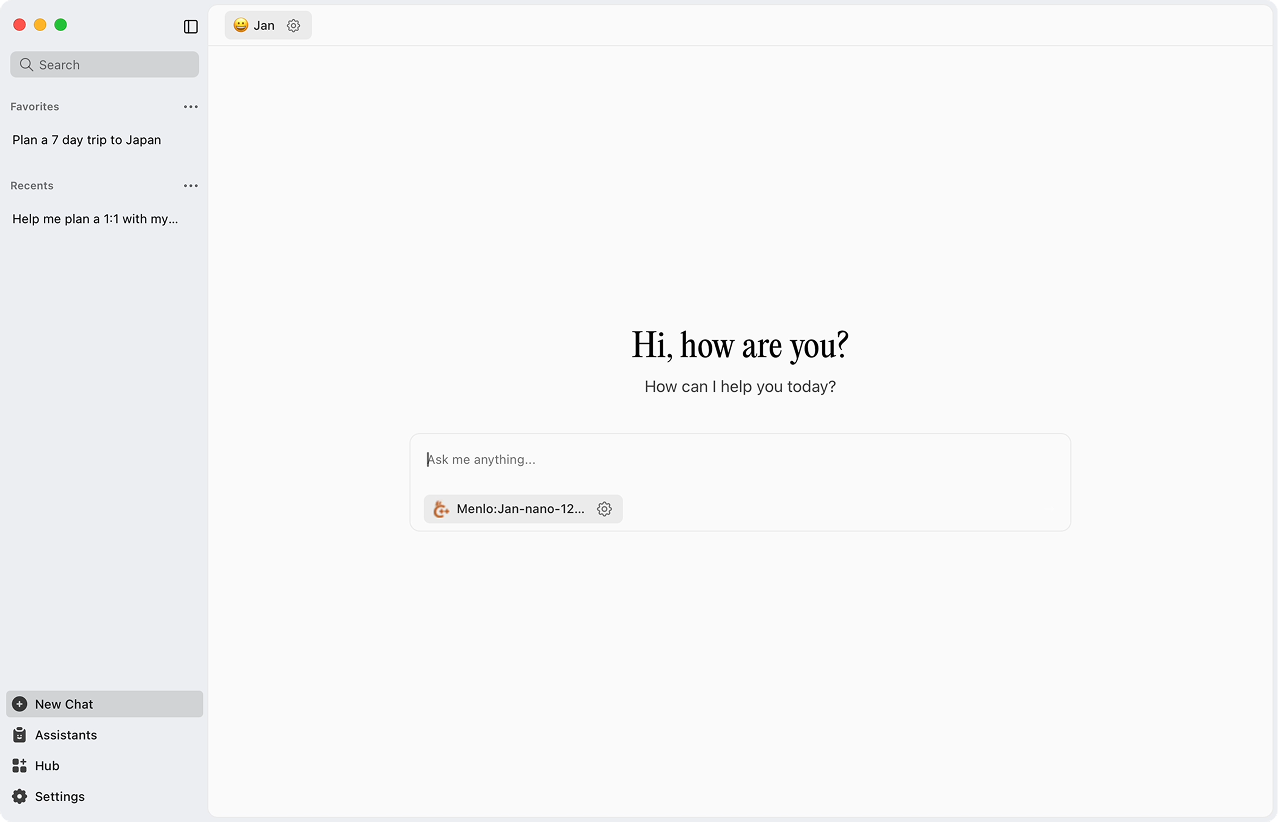
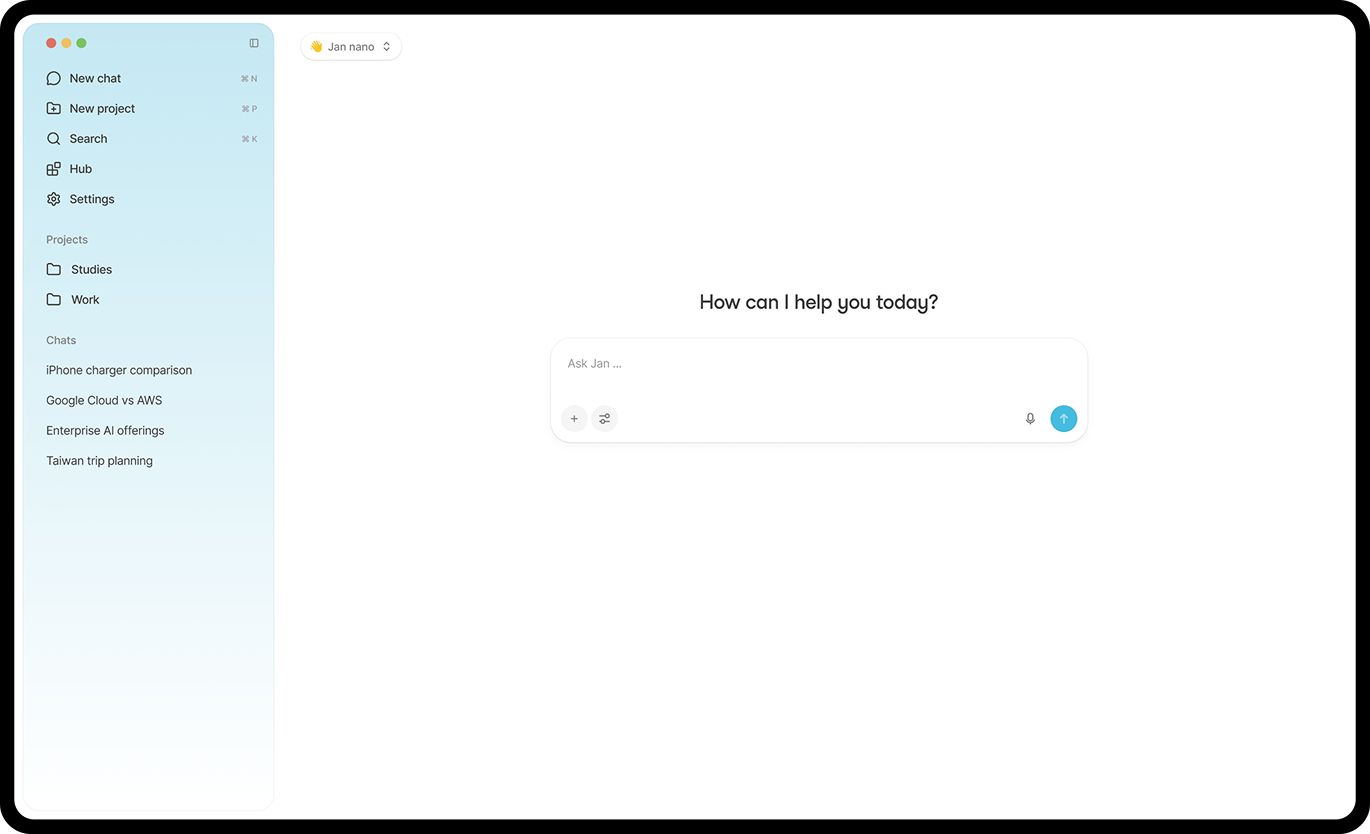
chore: update landing page app screenshots

diff --git a/docs/src/components/Home/index.tsx b/docs/src/components/Home/index.tsx
@@ -208,7 +208,7 @@ const Home = () => {
           </div>
         </div>
 
-        <div className="hidden size-4/5 xl:size-3/5 bg-black rounded-[20px] mx-auto relative -mt-40 lg:flex p-3 animate-scale-in delay-300">
+        <div className="hidden size-4/5 xl:size-3/5 rounded-[20px] mx-auto relative -mt-40 lg:flex animate-scale-in delay-300">
           <div className="rounded-md size-full overflow-hidden">
             <img
               src={AppJanPNG.src}
@@ -218,7 +218,7 @@ const Home = () => {
           </div>
         </div>
 
-        <div className="lg:hidden size-full bg-black rounded-2xl mx-auto relative mt-10 flex p-2 animate-scale-in delay-300">
+        <div className="lg:hidden size-full rounded-2xl mx-auto relative mt-10 flex animate-scale-in delay-300">
           <div className="rounded-lg size-full overflow-hidden">
             <img
               src={AppJanPNG.src}
